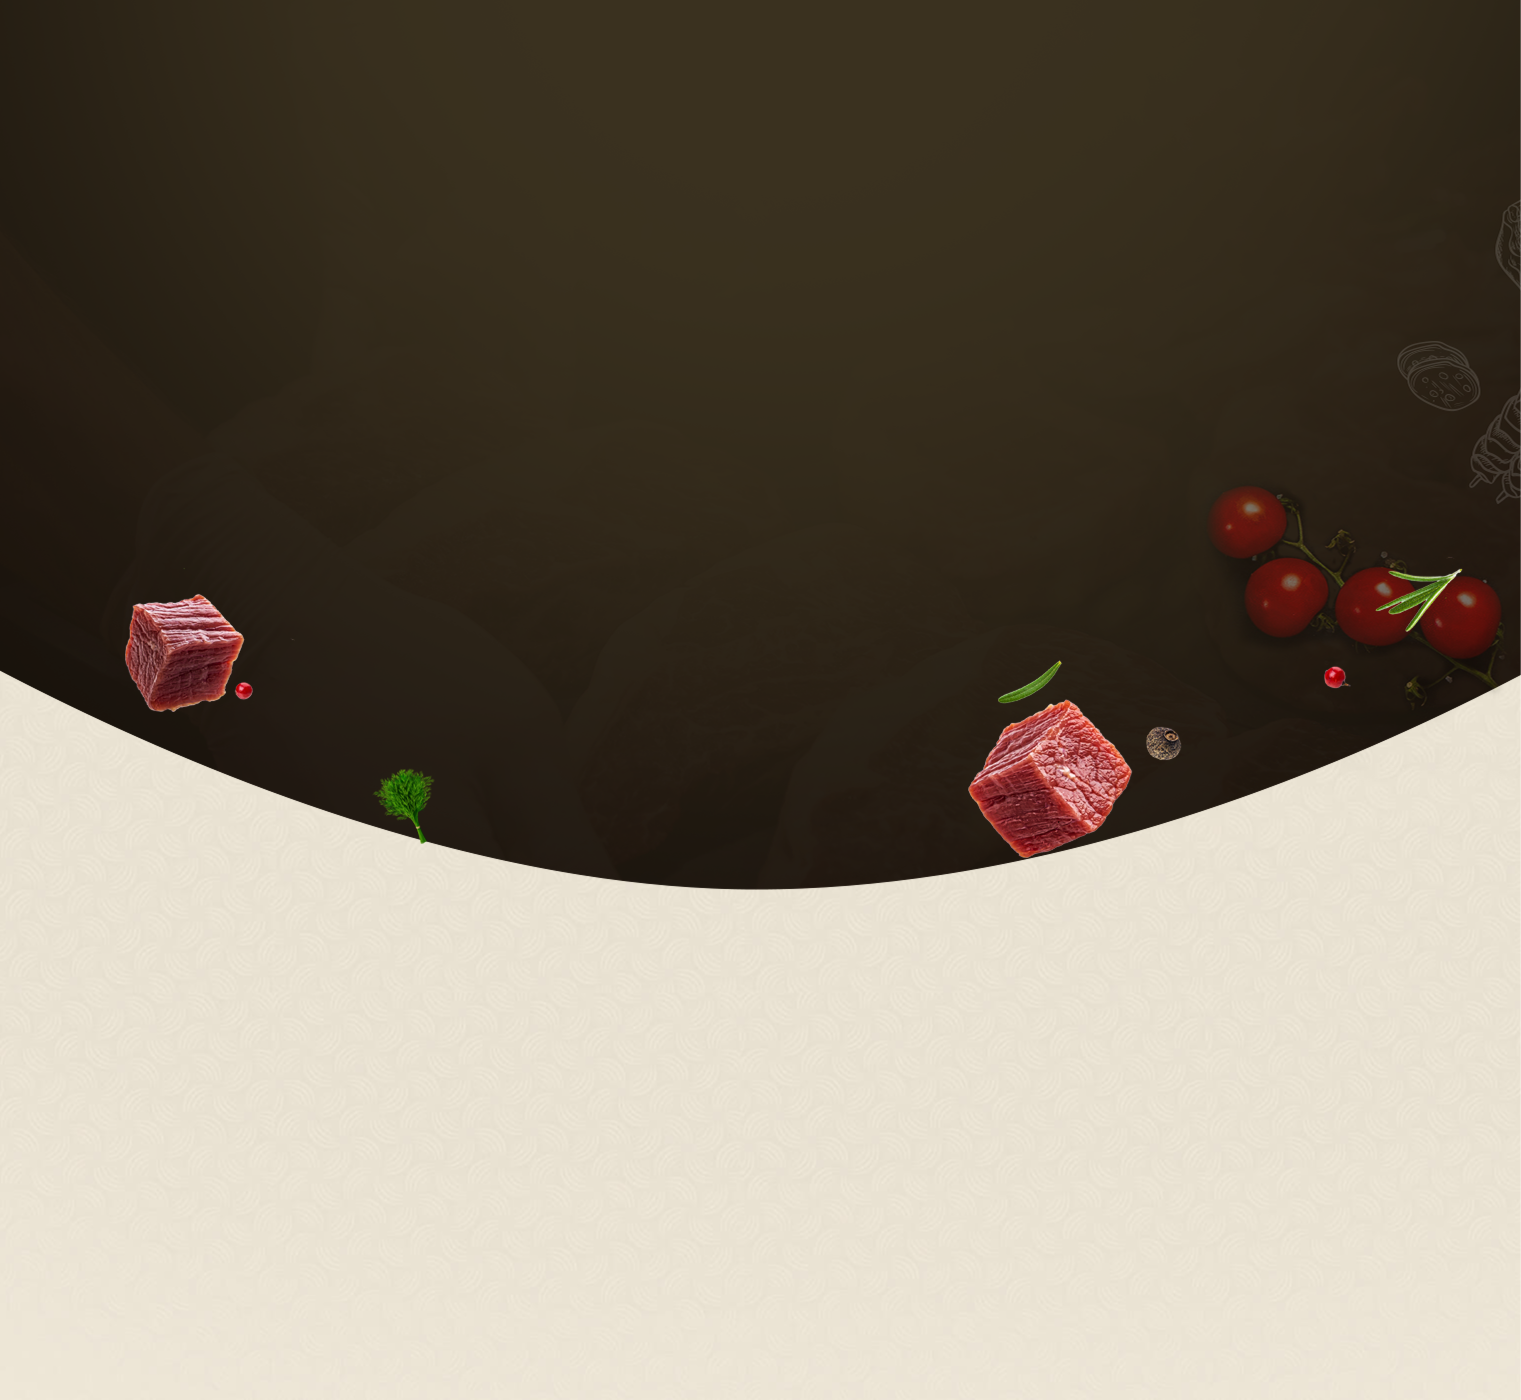
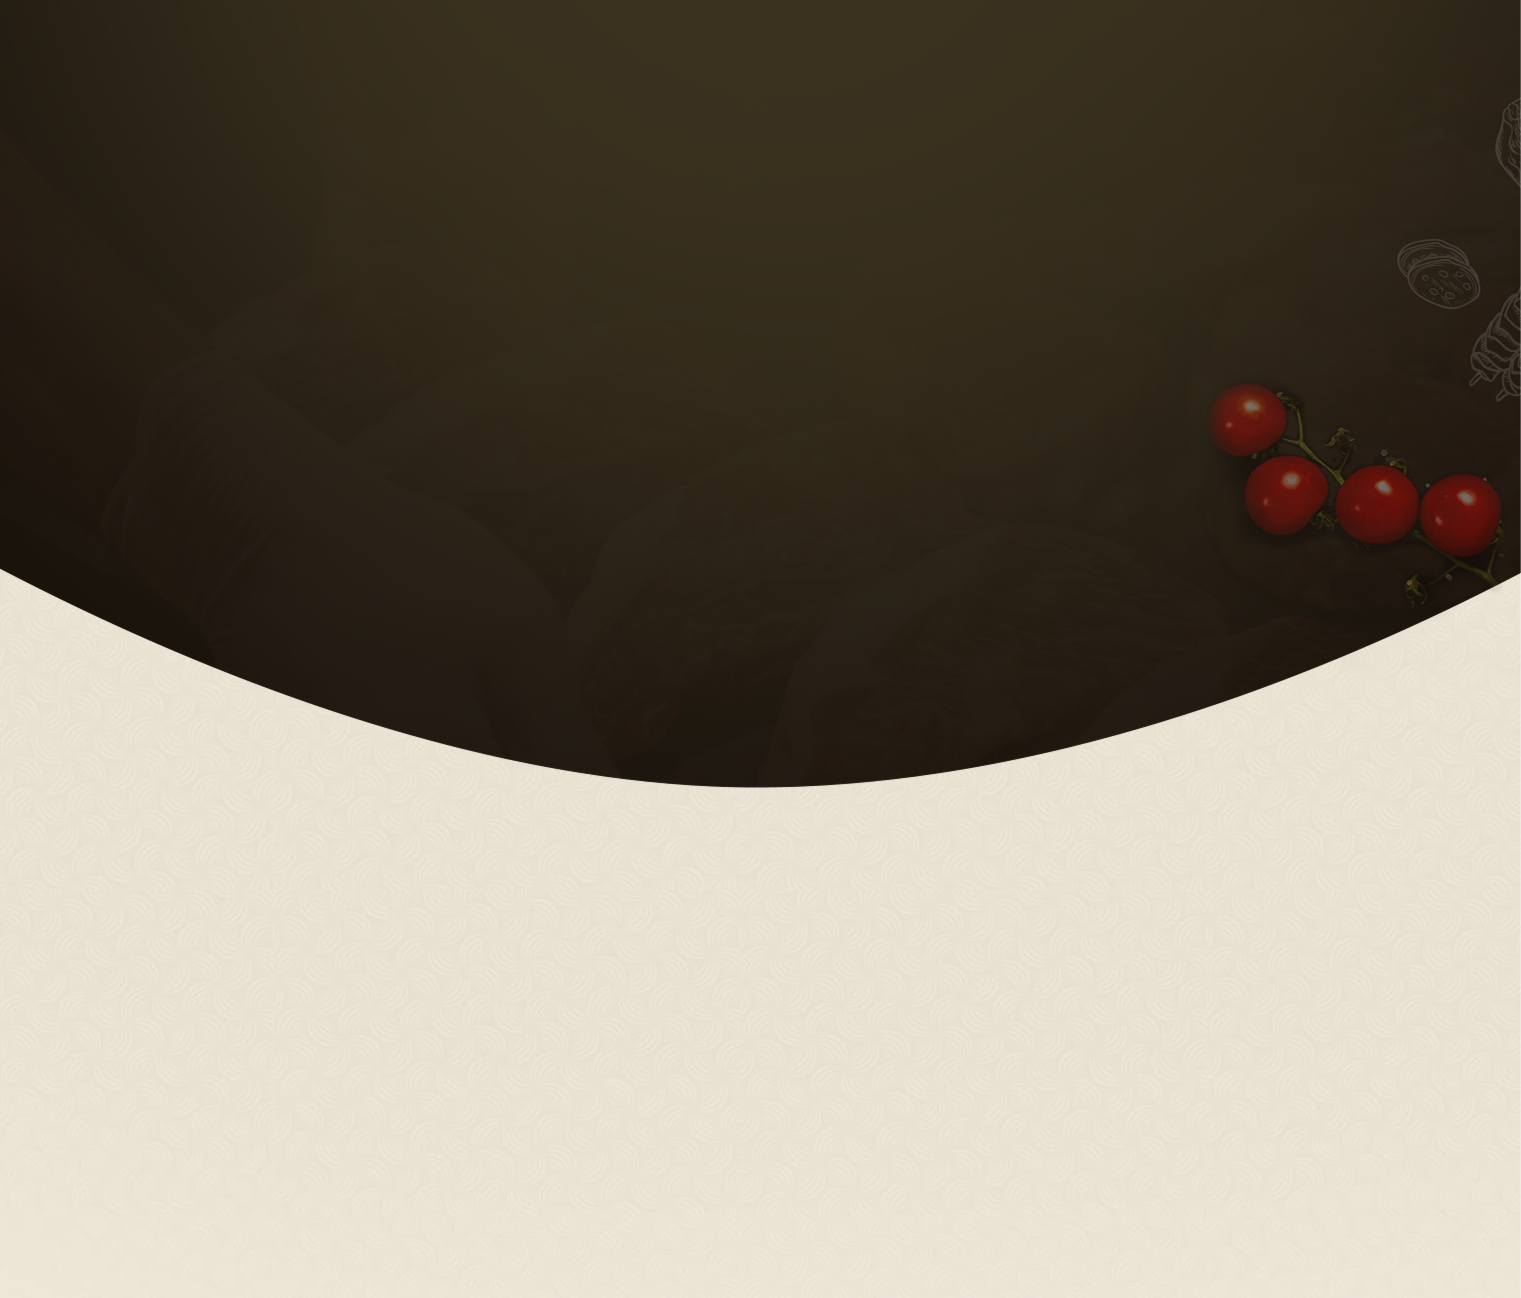
Hero Section initial animation done

Changed region(s): [[0.0, 0.2157, 1.0, 0.6471], [0.9888, 0.1233, 1.0, 0.1849], [0.927, 0.1849, 0.9579, 0.2157]]

diff --git a/style.css b/style.css
@@ -1,116 +1,224 @@
-*{
- font-family:"Poppins",  "Paytone One", "Pacifico", sans-serif;
- box-sizing: border-box;
- padding: 0;
- margin: 0;
+* {
+  font-family: "Poppins", "Paytone One", "Pacifico", sans-serif;
+  box-sizing: border-box;
+  padding: 0;
+  margin: 0;
 }
 /* Nav-bar started */
-.logo{
-   display: flex; 
-   gap: 10px;
-   align-items: center;
+.logo {
+  display: flex;
+  gap: 10px;
+  align-items: center;
 }
-#icon-logo{
-    width: 38px;
-}
-
-#brand-name{
-font-family: "Paytone One",sans-serif;
-color: #39301F;
+#icon-logo {
+  width: 38px;
 }
 
-.n-link{
-    color: #39301F;
-    font-family: "Paytone One",sans-serif;
-    text-decoration: none;
+#brand-name {
+  font-family: "Paytone One", sans-serif;
+  color: #39301f;
 }
-.link-bundle{
-    display: flex;
-    align-items: center;
-    gap: 35px;
-}
-.icon-button{
-    display: flex;
-    align-items: center;
-    gap: 20px;
-}
-.r-btn{
-    background-color: #DF2614;
-    color: white;
-    border-radius: 50px;
-    font-family: "Paytone One",sans-serif;
-    border: none;
-    padding:10px 20px ;
-    font-size: 16px;
-}
-.navbar{
-    background-color: #EFE8D9;
-    display: flex;
-    align-items: center;
-    padding: 25px 20px ;
-    justify-content: space-between;
-    border-bottom-left-radius: 20px;
-    border-bottom-right-radius: 20px;
-    width: 100%;
-    position:fixed;
-    z-index: 11;
 
+.n-link {
+  color: #39301f;
+  font-family: "Paytone One", sans-serif;
+  text-decoration: none;
+}
+.link-bundle {
+  display: flex;
+  align-items: center;
+  gap: 35px;
+}
+.icon-button {
+  display: flex;
+  align-items: center;
+  gap: 20px;
+}
+.r-btn {
+  background-color: #df2614;
+  color: white;
+  border-radius: 50px;
+  font-family: "Paytone One", sans-serif;
+  border: none;
+  padding: 10px 20px;
+  font-size: 16px;
+}
+.navbar {
+  background-color: #efe8d9;
+  display: flex;
+  align-items: center;
+  padding: 25px 20px;
+  justify-content: space-between;
+  border-bottom-left-radius: 20px;
+  border-bottom-right-radius: 20px;
+  width: 100%;
+  position: fixed;
+  z-index: 11;
 }
 
 /* Nav-bar ended */
 /* Hero Section Started */
 
-.hero-bg{
-    width: 100%;
-    position: absolute;
-    background-position: center;
-    background-repeat: no-repeat;
-    object-fit: cover;
-
+.hero-bg {
+  width: 100%;
+  position: absolute;
+  background-position: center;
+  background-repeat: no-repeat;
+  object-fit: cover;
 }
-.hero-container{
-    display: flex;
-    flex-direction: column;
-    align-items: center;
-    padding-top: 220px;
-    gap: 25px;
+.hero-container {
+  display: flex;
+  flex-direction: column;
+  align-items: center;
+  padding-top: 215px;
+  gap: 25px;
 }
-.title-box{
-    display: flex;
-    flex-direction: column;
-    align-items: center;
+.title-box {
+  display: flex;
+  flex-direction: column;
+  align-items: center;
 }
-.title-box h1{
-    font-size: 120px;
-    color: white;
+.title-box h1 {
+  font-size: 120px;
+  color: white;
 }
-.title-box h3{
-    font-size: 24px;
-    color:#DF2614;
+.title-box h3 {
+  font-size: 24px;
+  color: #df2614;
 }
-.hero-txt{
-    position: relative;
-    /* padding-top: 250px; */
-    display: flex;
-    flex-direction: column;
-    align-items: center;
-    gap: 30px;
+.hero-txt {
+  position: relative;
+  display: flex;
+  flex-direction: column;
+  align-items: center;
+  gap: 30px;
 }
-.hero-img{
-    position: relative;
-   animation: Up-Down 2s ease-in-out 1ms infinite alternate;
+.hero-img {
+  position: relative;
+  width: 34%;
+  animation: rotation 15s linear 0ms infinite;
+}
+@keyframes rotation {
+  100% {
+    transform: rotate(360deg);
+  }
+}
+.hero-img-container {
+  display: flex;
+  justify-content: center;
+  gap: 35px;
+}
+.sub-1 {
+  position: absolute;
+  width: 12%;
+  align-self: flex-end;
+  bottom: 120px;
+}
+.sub-2 {
+  position: absolute;
+  width: 18%;
+  align-self: flex-end;
+  bottom: 150px;
+  right: 50px;
+}
+.sub-3 {
+  position: absolute;
+  width: 35%;
+  bottom: 170px;
+}
+.sub-4 {
+  position: absolute;
+  width: 70%;
+  align-self: flex-start;
+  bottom: 125px;
+  
+}
+.himg-sub-container {
+  display: flex;
+  flex-direction: column;
+  align-items: center;
+  justify-content: center;
+  width: 100%;
+}
+.hero-img-sub {
+  position: relative;
+  animation: Up-Down 1.2s ease-in-out 1ms infinite alternate;
 }
 @keyframes Up-Down {
   0% {
     transform: translateY(0);
   }
   100% {
-    transform: translateY(45px);
+    transform: translateY(10px);
   }
 }
 
-
-
-
-
 /* Hero Section ended */
+
+The viewing container .slider-window {
+  width: 100%;
+  height: 400px;
+  overflow: hidden; /* Hides the banners waiting in line */
+  position: relative;
+}
+
+/* The long train carrying all slides */
+.slider-wrapper {
+  display: flex;
+  width: 400%; /* 4 slides total (3 unique + 1 clone) */
+  height: 100%;
+  animation: slideAnimation 12s infinite ease-in-out;
+}
+
+/* Individual slides */
+.slide {
+  width: 100%; /* Takes up exactly 100% of the slider-window */
+  height: 100%;
+  display: flex;
+  align-items: center;
+  justify-content: center;
+  font-size: 2rem;
+  color: white;
+}
+
+/* Background colors for styling */
+.slide-1 {
+  background-color: #3498db;
+}
+.slide-2 {
+  background-color: #e74c3c;
+}
+.slide-3 {
+  background-color: #2ecc71;
+}
+
+/* The animation logic */
+@keyframes slideAnimation {
+  /* Slide 1 (Static) */
+  0%,
+  25% {
+    transform: translateX(0);
+  }
+
+  /* Transition to Slide 2 */
+  33%,
+  58% {
+    transform: translateX(-25%);
+  }
+
+  /* Transition to Slide 3 */
+  66%,
+  91% {
+    transform: translateX(-50%);
+  }
+
+  /* Transition to cloned Slide 1 */
+  100% {
+    transform: translateX(-75%);
+  }
+}
+
+/* Optional: Pause the slider when a user hovers over it */
+.slider-window:hover .slider-wrapper {
+  animation-play-state: paused;
+}

diff --git a/index.html b/index.html
@@ -24,7 +24,7 @@
   </head>
   <body>
     <header class="hero-section">
-        <!-- Nav-bar Started -->
+      <!-- Nav-bar Started -->
       <nav class="navbar">
         <div class="logo">
           <img
@@ -48,21 +48,60 @@
         </div>
       </nav>
       <!-- Nav-bar ended -->
-      <img src="./Resources/Hero Section/Section.png" alt="hero-bg" class="hero-bg">
+      <img
+        src="./Resources/Hero Section/Section.png"
+        alt="hero-bg"
+        class="hero-bg"
+      />
       <div class="hero-container">
         <div class="hero-txt">
-            <div class="title-box">
-                <h1>Fresh Meat</h1>
-                <h3>Butcher & Meat shop</h3>
-            </div>
-            <button class="r-btn">ORDER NOW</button>
+          <div class="title-box">
+            <h1>Fresh Meat</h1>
+            <h3>Butcher & Meat shop</h3>
+          </div>
+          <button class="r-btn">ORDER NOW</button>
         </div>
-        <img src="./Resources/Hero Section/Image.png" alt="Gusto" class="hero-img">
+        <div class="hero-img-container">
+          <div class="himg-sub-container c-01">
+            <img src="./Resources/Hero Section/shape03.png.png" alt="" class="hero-img-sub sub-1">
+            <img
+              src="./Resources/Hero Section/shape02.png"
+              alt="Gusto-s1"
+              width=" 100%"
+              class="hero-img-sub sub-3"
+            />
+            
+          </div>
 
+          <img
+            src="./Resources/Hero Section/Image.png"
+            alt="Gusto2"
+            class="hero-img"
+          />
+          <div class="himg-sub-container c-02">
+            <img src="./Resources/Hero Section/shape04.png" alt="" class="hero-img-sub sub-2">
+            <img
+              src="./Resources/Hero Section/shape01.png"
+              alt="Gusto-s2"
+              class="hero-img-sub sub-4"
+            />
+          </div>
+        </div>
       </div>
-      
     </header>
-    <main></main>
+    <main>
+      <!-- <div class="slider-window">
+  <div class="slider-wrapper">
+    <div class="slide slide-1">Banner 1</div>
+    <div class="slide slide-2">Banner 2</div>
+    <div class="slide slide-3">Banner 3</div>
+    <!-- Duplicate the first slide at the end for a seamless endless loop transition -->
+    <!-- <div class="slide slide-1">Banner 1</div>
+  </div>
+</div> --> -->
+
+
+    </main>
     <footer></footer>
   </body>
 </html>
